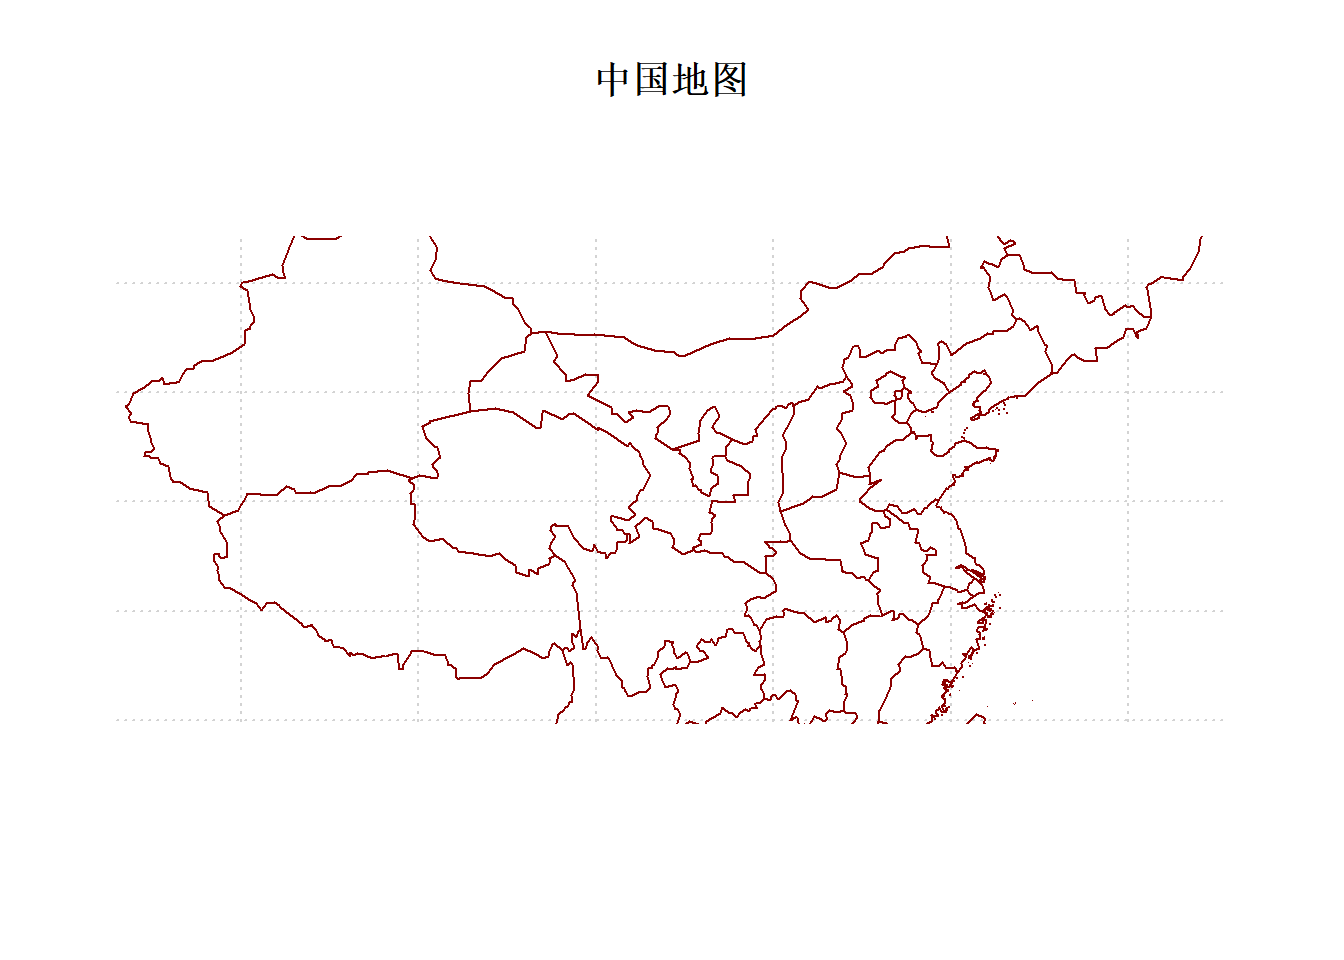
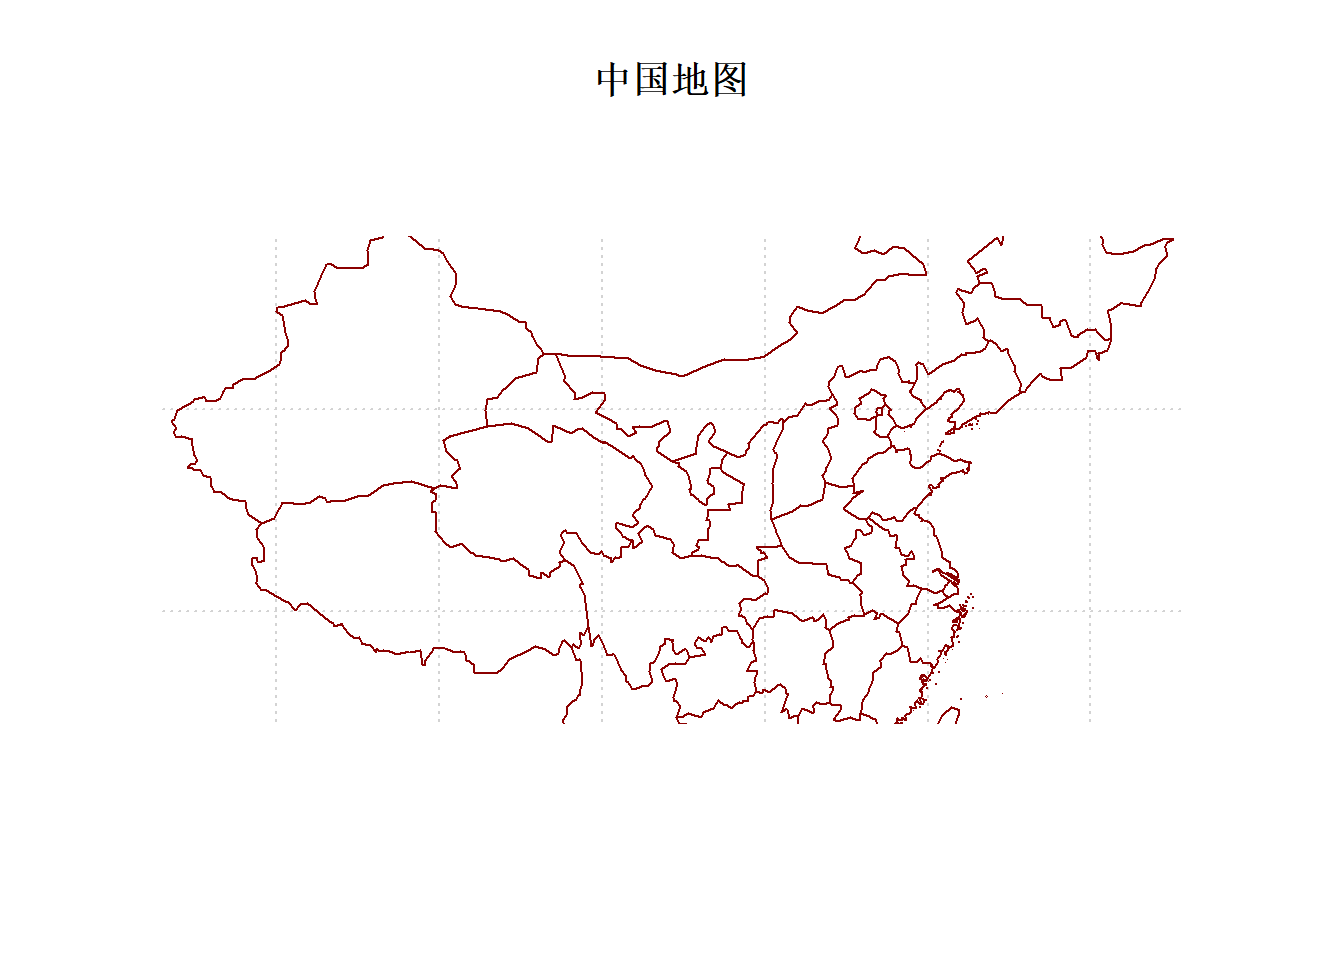
new post

diff --git a/public/2019/05/22/wo/index.html b/public/2019/05/22/wo/index.html
@@ -82,7 +82,7 @@ title(&quot;世界地图&quot;)</code></pre>
 <p><img src="/post/2019-05-22-wo_files/figure-html/unnamed-chunk-1-1.png" width="672" /></p>
 <pre class="r"><code>library(maps)
 library(mapdata)
-map(&quot;china&quot;, col = &quot;red4&quot;, ylim = c(18, 54), panel.first = grid())
+map(&quot;china&quot;, col = &quot;red4&quot;, ylim = c(17, 56), panel.first = grid())
 title(&quot;中国地图&quot;)</code></pre>
 <p><img src="/post/2019-05-22-wo_files/figure-html/unnamed-chunk-1-2.png" width="672" /></p>
 

diff --git a/content/post/2019-05-22-wo.html b/content/post/2019-05-22-wo.html
@@ -16,6 +16,6 @@ title(&quot;世界地图&quot;)</code></pre>
 <p><img src="/post/2019-05-22-wo_files/figure-html/unnamed-chunk-1-1.png" width="672" /></p>
 <pre class="r"><code>library(maps)
 library(mapdata)
-map(&quot;china&quot;, col = &quot;red4&quot;, ylim = c(18, 54), panel.first = grid())
+map(&quot;china&quot;, col = &quot;red4&quot;, ylim = c(17, 56), panel.first = grid())
 title(&quot;中国地图&quot;)</code></pre>
 <p><img src="/post/2019-05-22-wo_files/figure-html/unnamed-chunk-1-2.png" width="672" /></p>
